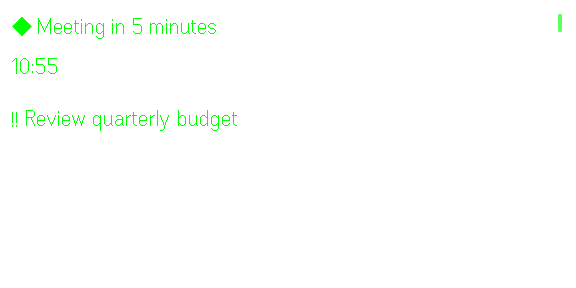
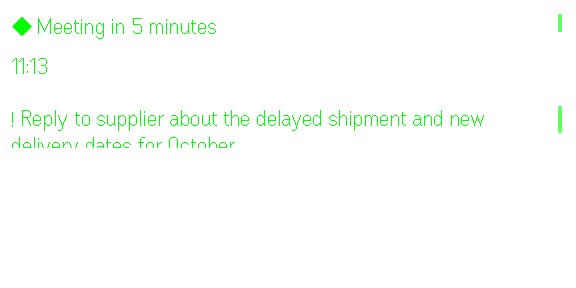
Route task-with-subtasks taps to Task View; auto-complete when subtasks finish
- Tasks screen: tapping a task that has subtasks now opens Task View instead
  of toggling it directly — such a task can only be completed by finishing
  its subtasks. A task with none still completes with a single tap.
- TaskStore: after a subtask toggle succeeds, syncs the parent task's
  completed state to 'are all subtasks done?' (and un-completes it if a
  subtask is unchecked afterwards), sharing the same optimistic-apply/
  rollback path as a manual toggle. Guarded against firing while a
  completion change is already in flight for that task.
- Task View's subtask list now sinks completed subtasks to the bottom, same
  as the top-level Tasks list — found via simulator testing that without it,
  a list rebuild resets the OS cursor to row 0 after every toggle, so
  checking off subtasks one after another kept re-hitting the same row.
- Updated the e2e script's existing scenarios: t1 has subtasks in the mock
  fixture regardless of the priority=flat query flag, so the old 'tap to
  toggle t1' checks now target t2 (no subtasks) instead, and the new
  scenario verifies the open-on-tap + auto-complete flow plus that the
  Tasks menu's Open item still reaches a no-subtask task's description.

69 unit tests (6 new, covering auto-complete, auto-uncomplete, the
still-in-flight guard, and partial completion) and two consecutive full e2e
runs pass; behaviour also verified by hand in the simulator.

diff --git a/tests/core.test.ts b/tests/core.test.ts
@@ -1,6 +1,6 @@
 import { afterEach, beforeEach, describe, expect, it, vi } from 'vitest'
 import { redact } from '../src/core/logger'
-import { hasMixedPriorities, nextMeetingSoon, nextTask, openCount, orderedTasks } from '../src/core/selectors'
+import { hasMixedPriorities, nextMeetingSoon, nextTask, openCount, orderedSubtasks, orderedTasks } from '../src/core/selectors'
 import { getGlanceSummary } from '../src/core/summary'
 import { SyncController } from '../src/core/sync'
 import { TaskStore } from '../src/core/taskStore'
@@ -105,6 +105,16 @@ describe('selectors and summary', () => {
     expect(hasMixedPriorities(tasks)).toBe(true)
     expect(hasMixedPriorities([task('a', false, 'normal'), task('b')])).toBe(false)
     expect(hasMixedPriorities([task('a', true, 'urgent'), task('b', false, 'normal')])).toBe(false) // completed tasks don't count
+  })
+
+  it('sinks completed subtasks to the bottom, keeping order within each group', () => {
+    const subtasks = [
+      { id: 's1', title: 'One', completed: true },
+      { id: 's2', title: 'Two', completed: false },
+      { id: 's3', title: 'Three', completed: false },
+      { id: 's4', title: 'Four', completed: true },
+    ]
+    expect(orderedSubtasks(subtasks).map(s => s.id)).toEqual(['s2', 's3', 's1', 's4'])
   })
 
   it('summarises for glance surfaces using priority-ordered "next"', () => {
@@ -264,6 +274,74 @@ describe('TaskStore', () => {
       await store.refresh()
       expect(await store.toggleSubtask('a', 'nope')).toBe(false)
       expect(await store.toggleSubtask('missing-task', 's1')).toBe(false)
+    })
+
+    describe('completion sync', () => {
+      // Two subtasks, one already done: a task with subtasks can only complete via its subtasks.
+      const partial = {
+        ...task('a'),
+        subtasks: [
+          { id: 's1', title: 'One', completed: true },
+          { id: 's2', title: 'Two', completed: false },
+        ],
+        subtasksDone: 1,
+        subtasksTotal: 2,
+      }
+
+      it('auto-completes the task once its last subtask is checked off', async () => {
+        const provider = fakeProvider([partial])
+        const store = new TaskStore({ provider, kv: new MemoryKv(), now })
+        await store.refresh()
+        expect(await store.toggleSubtask('a', 's2')).toBe(true)
+        expect(provider.setCompleted).toHaveBeenCalledWith('a', true, '2026-09-20')
+        expect(store.getState().tasks[0].completed).toBe(true)
+        expect(store.getState().pending).toEqual({})
+      })
+
+      it('auto-uncompletes an already-complete task when a subtask is unchecked', async () => {
+        const done = { ...partial, completed: true, subtasks: partial.subtasks.map(s => ({ ...s, completed: true })), subtasksDone: 2 }
+        const provider = fakeProvider([done])
+        const store = new TaskStore({ provider, kv: new MemoryKv(), now })
+        await store.refresh()
+        expect(await store.toggleSubtask('a', 's1')).toBe(true)
+        expect(provider.setCompleted).toHaveBeenCalledWith('a', false, '2026-09-20')
+        expect(store.getState().tasks[0].completed).toBe(false)
+      })
+
+      it('leaves task completion alone when some subtasks are still open', async () => {
+        const provider = fakeProvider([partial])
+        const store = new TaskStore({ provider, kv: new MemoryKv(), now })
+        await store.refresh()
+        expect(await store.toggleSubtask('a', 's1')).toBe(true) // un-checks the one that was done; still not "all done"
+        expect(provider.setCompleted).not.toHaveBeenCalled()
+        expect(store.getState().tasks[0].completed).toBe(false)
+      })
+
+      it('rolls back just the completion sync if it fails, keeping the subtask toggle that already succeeded', async () => {
+        const provider = fakeProvider([partial])
+        provider.setCompleted.mockRejectedValue(new Error('offline'))
+        const store = new TaskStore({ provider, kv: new MemoryKv(), now })
+        await store.refresh()
+        expect(await store.toggleSubtask('a', 's2')).toBe(true) // the subtask call itself succeeded
+        const finalTask = store.getState().tasks[0]
+        expect(finalTask.subtasks.find(s => s.id === 's2')?.completed).toBe(true)
+        expect(finalTask.completed).toBe(false) // rolled back
+        expect(store.getState().lastToggleFailedAt).toBeDefined()
+      })
+
+      it('does not fire a second completion call while one is already in flight for the task', async () => {
+        const provider = fakeProvider([partial])
+        let finishComplete!: () => void
+        provider.setCompleted.mockImplementation(() => new Promise<void>(resolve => (finishComplete = resolve)))
+        const store = new TaskStore({ provider, kv: new MemoryKv(), now })
+        await store.refresh()
+
+        const completing = store.toggle('a') // unrelated manual completion toggle, still in flight
+        await store.toggleSubtask('a', 's2') // would otherwise also want to complete the task
+        expect(provider.setCompleted).toHaveBeenCalledTimes(1)
+        finishComplete()
+        await completing
+      })
     })
   })
 })

diff --git a/src/core/taskStore.ts b/src/core/taskStore.ts
@@ -123,7 +123,11 @@ export class TaskStore {
   async toggle(id: string): Promise<boolean> {
     const task = this.state.tasks.find(t => t.id === id)
     if (!task || id in this.state.pending) return false
-    const target = !task.completed
+    return this.applyCompleted(id, !task.completed)
+  }
+
+  /** The shared optimistic apply/rollback for a task's completion, however it was decided. */
+  private async applyCompleted(id: string, target: boolean): Promise<boolean> {
     const day = this.state.day || todayInTz(this.state.tz, this.now())
     this.patch({ tasks: this.withCompleted(id, target), pending: { ...this.state.pending, [id]: target } })
     try {
@@ -144,7 +148,12 @@ export class TaskStore {
     }
   }
 
-  /** Same optimistic pattern as `toggle`, for one subtask of a task. */
+  /**
+   * Same optimistic pattern as `toggle`, for one subtask of a task. On
+   * success, also keeps the parent task's completion in sync with "are all
+   * its subtasks done?" — Task View has no other way to complete a task
+   * that has subtasks (see TasksScreen for the matching rule on the list).
+   */
   async toggleSubtask(taskId: string, subtaskId: string): Promise<boolean> {
     const task = this.state.tasks.find(t => t.id === taskId)
     const subtask = task?.subtasks.find(s => s.id === subtaskId)
@@ -159,6 +168,7 @@ export class TaskStore {
       this.patch({ pendingSubtasks: withoutKey(this.state.pendingSubtasks, subtaskId) })
       this.persist()
       this.log(`toggle subtask ${subtaskId} -> ${target} ok`)
+      void this.syncCompletionFromSubtasks(taskId)
       return true
     } catch (err) {
       this.patch({
@@ -170,6 +180,15 @@ export class TaskStore {
       this.log(`toggle subtask ${subtaskId} -> ${target} failed, rolled back`)
       return false
     }
+  }
+
+  /** "All subtasks done" <=> completed, applied only when it's out of sync and nothing else is mid-flight for this task. */
+  private async syncCompletionFromSubtasks(taskId: string): Promise<void> {
+    const task = this.state.tasks.find(t => t.id === taskId)
+    if (!task || task.subtasksTotal === 0 || taskId in this.state.pending) return
+    const shouldBeComplete = task.subtasksDone === task.subtasksTotal
+    if (task.completed === shouldBeComplete) return
+    await this.applyCompleted(taskId, shouldBeComplete)
   }
 
   private fail(err: unknown): void {

diff --git a/src/core/selectors.ts b/src/core/selectors.ts
@@ -1,5 +1,5 @@
 import { parseTimeOfDay12h, zonedTimeToUtc } from './time'
-import type { CalendarEvent, Priority, Task } from './types'
+import type { CalendarEvent, Priority, Subtask, Task } from './types'
 
 export const openTasks = (tasks: Task[]): Task[] => tasks.filter(t => !t.completed)
 export const doneTasks = (tasks: Task[]): Task[] => tasks.filter(t => t.completed)
@@ -18,6 +18,15 @@ export const priorityRank = (p: Priority): number => PRIORITY_RANK[p ?? 'normal'
 export function orderedTasks(tasks: Task[], showCompleted: boolean): Task[] {
   const open = [...openTasks(tasks)].sort((a, b) => priorityRank(a.priority) - priorityRank(b.priority))
   return showCompleted ? [...open, ...doneTasks(tasks)] : open
+}
+
+/**
+ * Open subtasks first, done ones after — same "sink to the bottom" rule as
+ * `orderedTasks`. A list rebuild resets the OS cursor to row 0, so without this,
+ * checking off several subtasks in a row keeps landing back on one you just did.
+ */
+export function orderedSubtasks(subtasks: Subtask[]): Subtask[] {
+  return [...subtasks].sort((a, b) => Number(a.completed) - Number(b.completed))
 }
 
 /** Whether `tasks` has more than one distinct priority among its open items — grouping is only useful then. */

diff --git a/src/glasses/screens/tasks.ts b/src/glasses/screens/tasks.ts
@@ -188,7 +188,11 @@ export class TasksScreen implements Screen {
     }
     if (row.k === 'task') {
       this.lastSelectedTaskId = row.id
-      void this.ctx.store.toggle(row.id)
+      const task = this.ctx.store.getState().tasks.find(t => t.id === row.id)
+      // A task with subtasks can only be completed by finishing all of them — open Task View
+      // for that instead of toggling here. A task with none still completes with one tap.
+      if (task && task.subtasksTotal > 0) this.ctx.openFocus(row.id)
+      else void this.ctx.store.toggle(row.id)
     } else if (row.k === 'prev' || row.k === 'next') {
       this.page = view.page + (row.k === 'next' ? 1 : -1)
       this.render()

diff --git a/src/glasses/screens/focus.ts b/src/glasses/screens/focus.ts
@@ -1,4 +1,4 @@
-import { nextMeetingSoon } from '../../core/selectors'
+import { nextMeetingSoon, orderedSubtasks } from '../../core/selectors'
 import { formatClock } from '../../core/time'
 import type { Subtask, Task } from '../../core/types'
 import type { GlassesInput } from '../events'
@@ -217,7 +217,7 @@ export class FocusScreen implements Screen {
       return { texts: [{ ...EVT, content: ' ', capture: true, padding: 0 }, header, notes], menu }
     }
 
-    const subtasks = task.subtasks.slice(0, MAX_SUBTASK_ROWS)
+    const subtasks = orderedSubtasks(task.subtasks).slice(0, MAX_SUBTASK_ROWS)
     this.subtaskIds = subtasks.map(s => s.id)
     return {
       texts: [header, notes],

diff --git a/README.md b/README.md
@@ -8,11 +8,15 @@ An [Even Hub](https://hub.evenrealities.com/docs/get-started/overview) plugin th
 - **Tasks screen**: today's tasks, open ones first, grouped by Sunsama's daily priority (urgent →
   important → normal → low) when more than one is in play and it still fits on one page. Tap to
   check off or un-check.
-- **Task View / Focus screen**: opened via the Tasks menu's **Open** item, for the task you last
-  tapped. *Full mode* shows the description and checkable subtasks. Its own menu's **Focus** item
-  switches to *Focus mode* — just the clock and task name, for working heads-down — with an upcoming-
-  meeting banner (`◆ Meeting in N minutes`) when one starts within 10 minutes. A single tap peeks at
-  the full view for 10 seconds and returns; a double-tap exits Focus mode for good.
+- **Task View / Focus screen**: tapping a task with subtasks in Tasks opens it directly — a task with
+  subtasks can only be completed by finishing all of them, so *Full mode* shows the description and
+  checkable subtasks instead of toggling it — the task itself completes automatically once every
+  subtask is checked off, and un-completes if you uncheck one afterwards. (The Tasks menu's **Open**
+  item also reaches it, for any
+  task, including ones without subtasks that you just want to read the notes on.) Its own menu's
+  **Focus** item switches to *Focus mode* — just the clock and task name, for working heads-down —
+  with an upcoming-meeting banner (`◆ Meeting in N minutes`) when one starts within 10 minutes. A
+  single tap peeks at the full view for 10 seconds and returns; a double-tap exits Focus mode for good.
 - **Phone page** (inside the Even app): connect to Sunsama, mirror of today's tasks (respects "show
   completed"), settings, log.
 
@@ -25,7 +29,7 @@ shows while the plugin is open. `src/core/summary.ts` is the piece a real widget
 | Screen | Tap | Double-tap | Tap, then long-press |
 |---|---|---|---|
 | Face | Open tasks | Exit dialog | Menu: Tasks · Refresh · Hide/Show completed |
-| Tasks | Check off / un-check the selected task | Back to face | Menu: Face · Refresh · Hide/Show completed · **Open** |
+| Tasks | Task with no subtasks: check off / un-check. Task with subtasks: opens Task View | Back to face | Menu: Face · Refresh · Hide/Show completed · **Open** |
 | Task View — full mode | Check off / un-check a subtask | Back to tasks | Menu: **Focus** · Tasks · Refresh |
 | Task View — Focus mode | Peek at full view for 10 s | Exit Focus mode (back to full) | Menu: Full view · Tasks |
 

diff --git a/store/listing.md b/store/listing.md
@@ -14,7 +14,7 @@ See today's Sunsama task list on your Even G2 and tick tasks off with a tap, pho
 
 - Glance screen: how many tasks are still open, the time, and the next task up.
 - Task list: today's tasks with open ones first, grouped by priority, and subtask progress. Tap a task to complete it; tap again to reopen it. Changes sync to Sunsama right away.
-- Task View: open a task's full description and subtasks, and check subtasks off individually.
+- Task View: tapping a task with subtasks opens its full description and checkable subtasks instead of completing it — the task finishes on its own once every subtask is checked off.
 - Focus mode: a distraction-free view showing just the clock and task name, with a heads-up banner when a meeting is starting soon. Tap to peek at the full view, double-tap to come back.
 - Contextual menu on every screen: switch screens, refresh, hide completed tasks, open a task.
 - Works offline from the last sync and never shows a blank screen.
